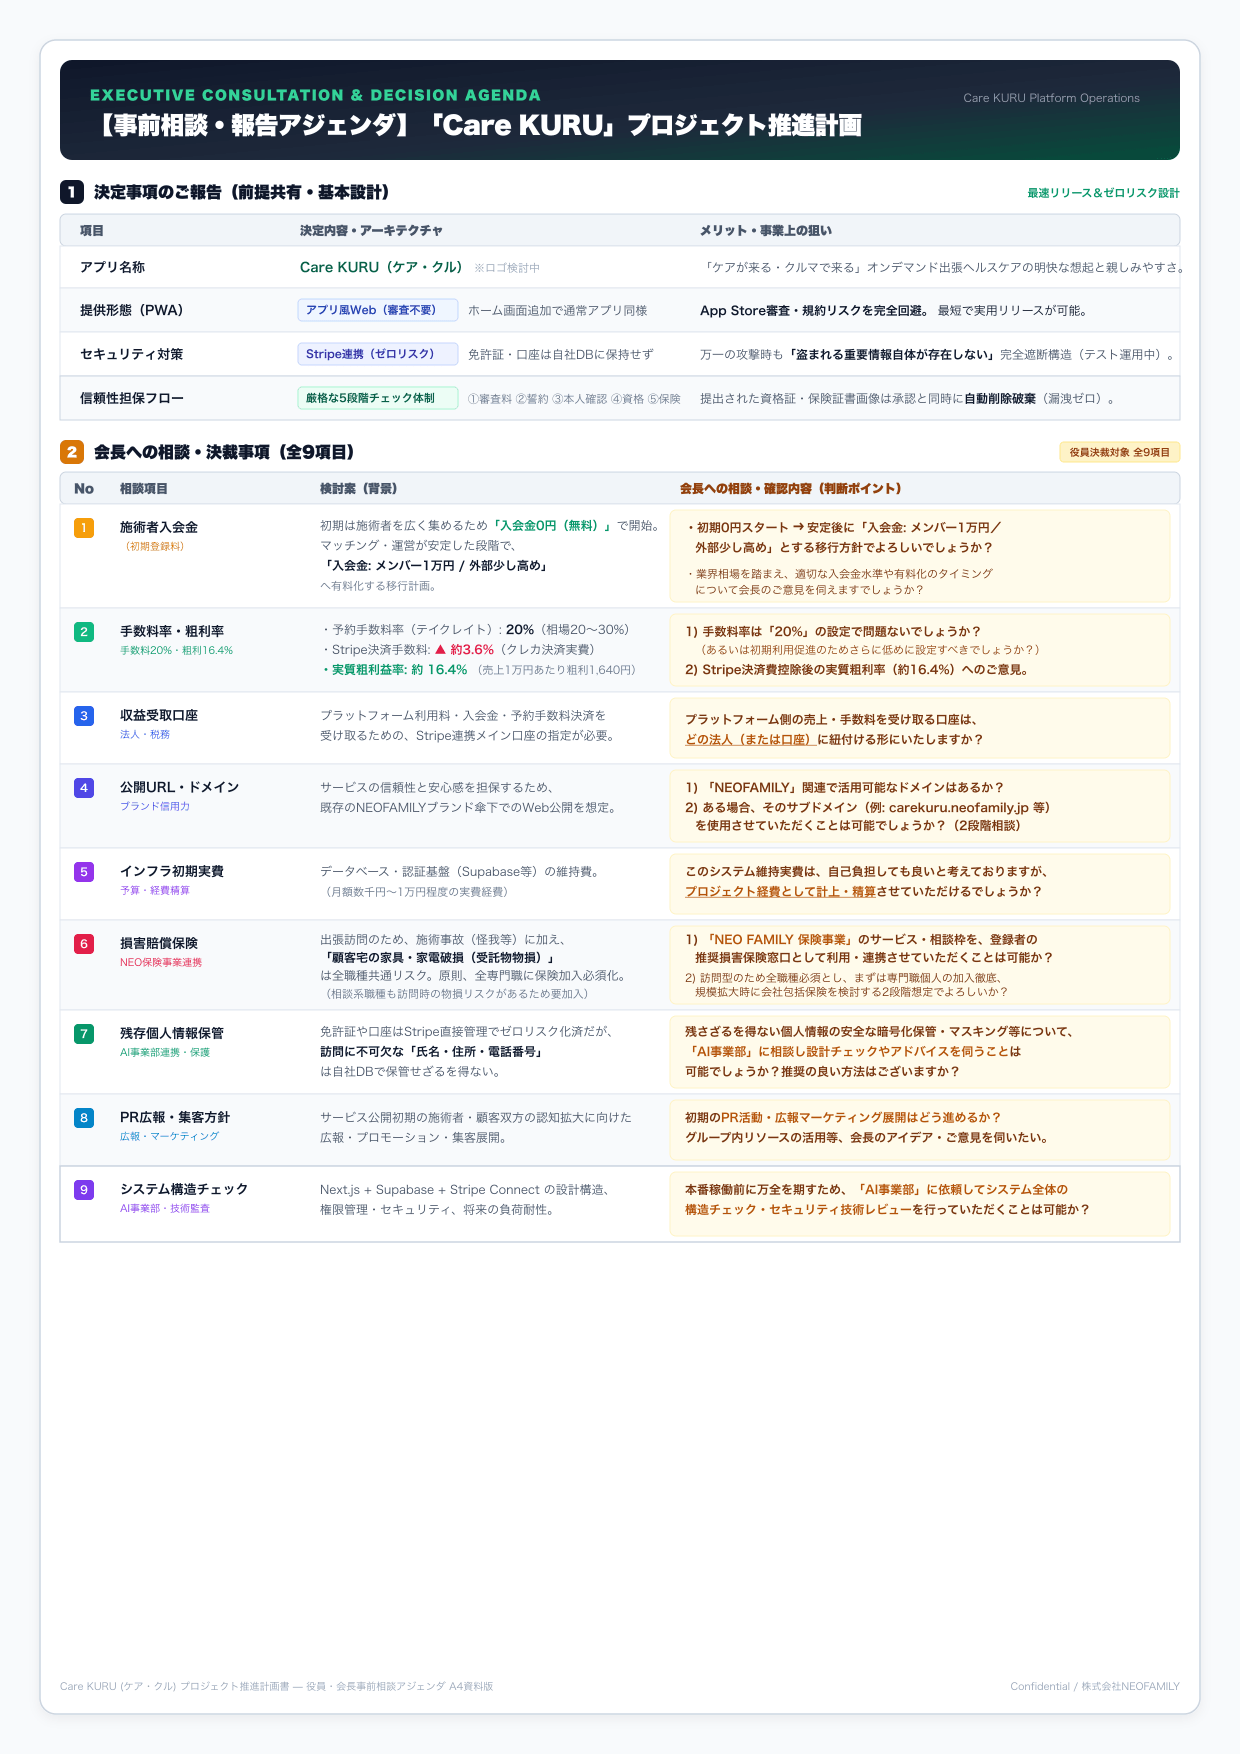
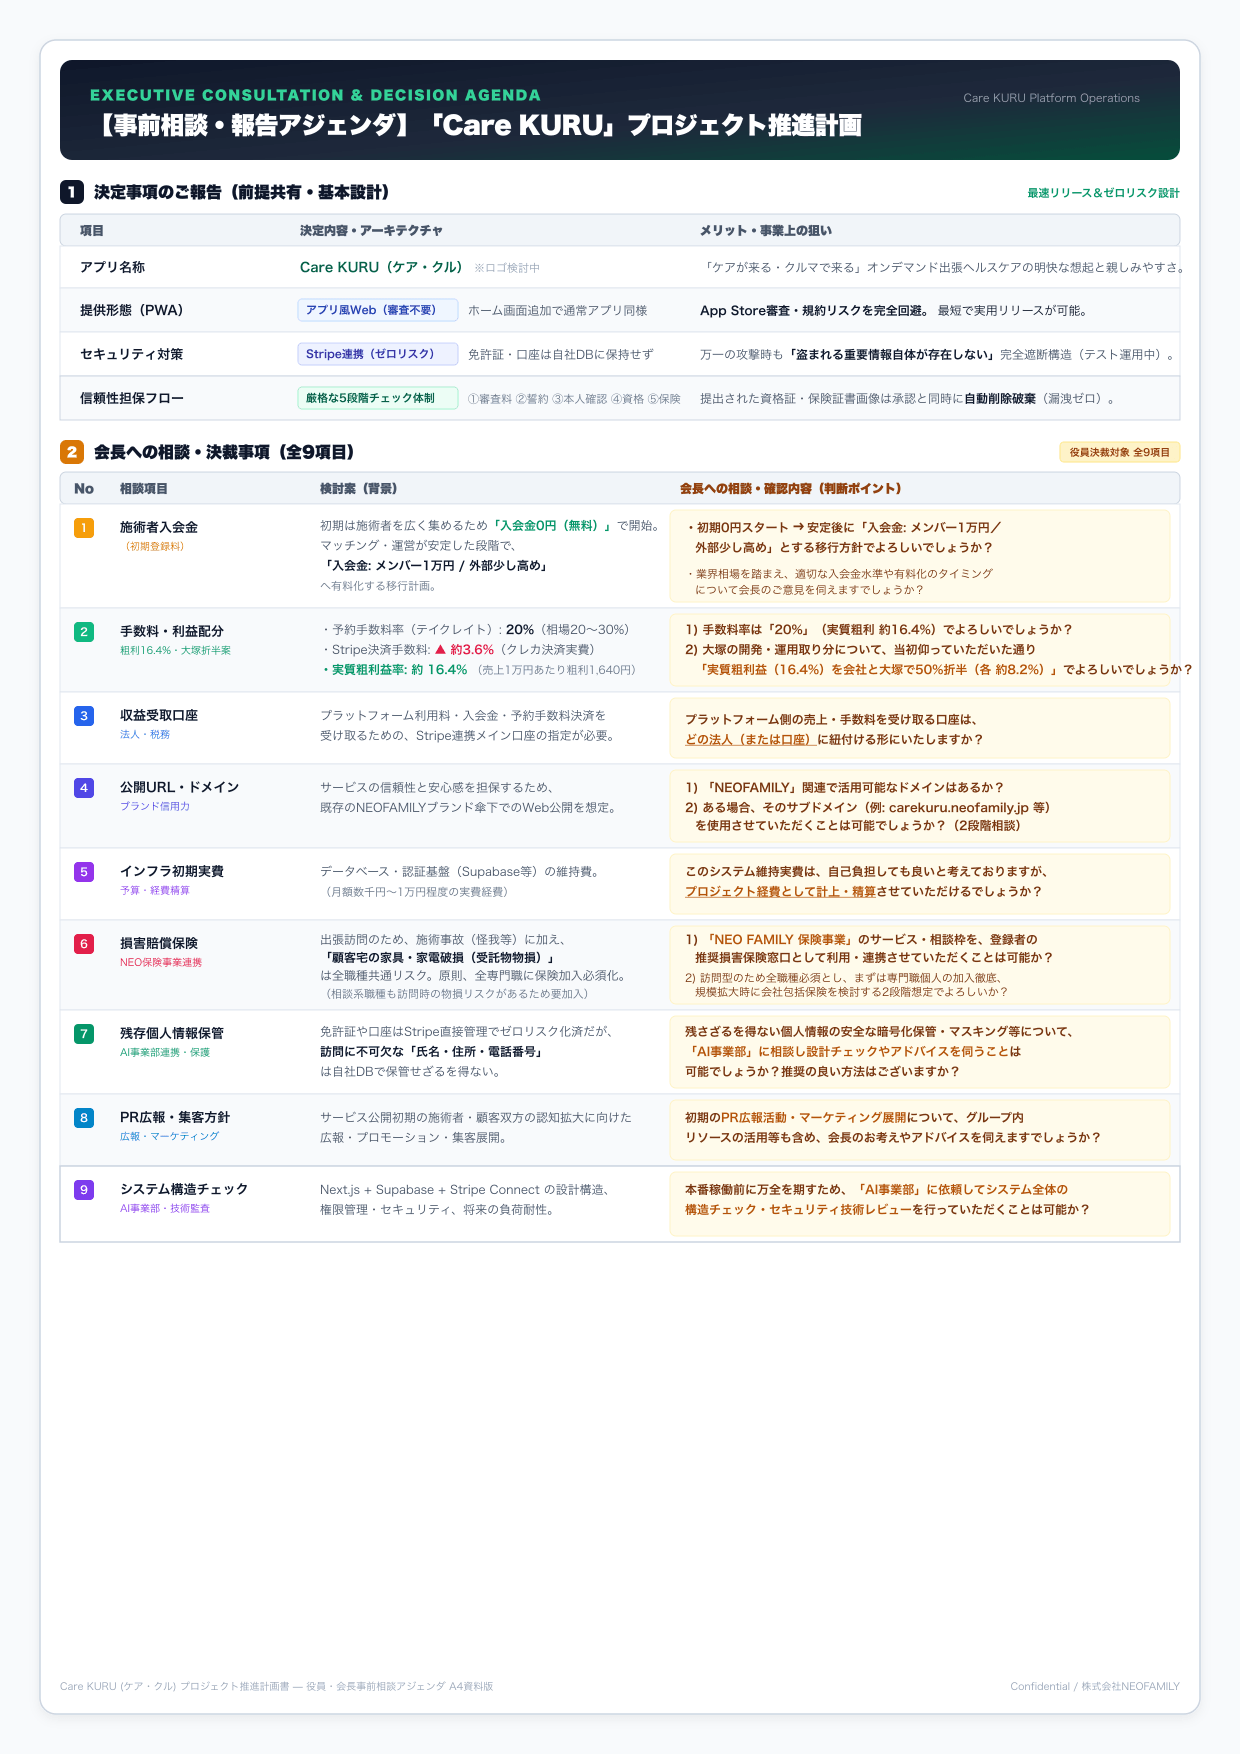
fix(guide): unify sentence endings and incorporate Otsuka's 50% profit share into agenda item 2

diff --git a/src/app/guide/admin/agenda/page.tsx b/src/app/guide/admin/agenda/page.tsx
@@ -148,24 +148,25 @@ export default function AgendaPage() {
                 </td>
               </tr>
 
-              {/* ② 手数料率・粗利率 */}
+              {/* ② 手数料率・粗利率・利益配分 */}
               <tr className="hover:bg-slate-50/50">
                 <td className="py-3 px-3 text-center font-bold text-emerald-700 border-r border-slate-200">2</td>
                 <td className="py-3 px-4 font-bold text-slate-900 border-r border-slate-200">
-                  <div>手数料率・粗利率</div>
-                  <span className="text-[11px] font-normal text-emerald-600">手数料20%・粗利16.4%</span>
+                  <div>手数料・利益配分</div>
+                  <span className="text-[11px] font-normal text-emerald-600">粗利16.4%・大塚折半案</span>
                 </td>
                 <td className="py-3 px-4 border-r border-slate-200 leading-relaxed text-slate-600">
-                  ・予約手数料率（テイクレイト）: <strong className="text-slate-900">20%</strong>（相場20〜30%）<br />
-                  ・Stripe決済手数料: <strong className="text-rose-600">▲ 約3.6%</strong>（クレカ決済実費）<br />
-                  ・実質粗利益率: <strong className="text-emerald-700">約 16.4%</strong>（売上1万円あたり粗利1,640円）
+                  ・手数料率: <strong className="text-slate-900">20%</strong>（相場20〜30%）<br />
+                  ・Stripe決済手数料: <strong className="text-rose-600">▲ 約3.6%</strong><br />
+                  ・実質粗利益率: <strong className="text-emerald-700">約 16.4%</strong><br />
+                  <span className="text-[11px] text-slate-500">（売上1万円あたり粗利1,640円）</span>
                 </td>
                 <td className="py-3 px-4 bg-amber-50/30 text-amber-950 leading-relaxed">
                   <div className="font-bold text-slate-900">
-                    1) 手数料率は「20%」の設定で問題ないでしょうか？（初期利用促進のためさらに低めにする案の要否）
+                    1) 手数料率は「20%」（実質粗利 約16.4%）の設定でよろしいでしょうか？
                   </div>
                   <div className="font-bold text-slate-900 mt-1">
-                    2) Stripe決済費控除後の実質粗利率（約16.4%）へのご意見。
+                    2) 大塚の開発・運用取り分について、当初仰っていただいた通り<span className="underline decoration-amber-500 font-black">「実質粗利益（約16.4%）を会社と大塚で50%ずつ折半（各 約8.2%）」</span>とする配分でよろしいでしょうか？
                   </div>
                 </td>
               </tr>
@@ -258,7 +259,7 @@ export default function AgendaPage() {
                 </td>
                 <td className="py-3 px-4 bg-amber-50/30 text-amber-950 leading-relaxed">
                   <div className="font-bold text-slate-900">
-                    残さざるを得ない個人情報の安全な暗号化保管・マスキング等について、<span className="underline decoration-amber-500 font-black">「AI事業部」に相談し設計チェックやアドバイスを伺うこと</span>は可能でしょうか？推奨の良い方法はございますか？
+                    残さざるを得ない個人情報の安全な暗号化保管・マスキング等について、<span className="underline decoration-amber-500 font-black">「AI事業部」に相談し設計チェックやアドバイスを伺うこと</span>は可能でしょうか？
                   </div>
                 </td>
               </tr>
@@ -275,7 +276,7 @@ export default function AgendaPage() {
                 </td>
                 <td className="py-3 px-4 bg-amber-50/30 text-amber-950 leading-relaxed">
                   <div className="font-bold text-slate-900">
-                    初期の<span className="underline decoration-amber-500 font-black">PR活動・広報マーケティング展開はどう進めるべきか？</span> グループ内リソースの活用等、会長のアイデア・ご意見を伺いたい。
+                    初期の<span className="underline decoration-amber-500 font-black">PR広報活動・マーケティング展開</span>について、グループ内リソースの活用等も含め、会長のお考えやアドバイスを伺えますでしょうか？
                   </div>
                 </td>
               </tr>

diff --git a/scripts/generateAgendaA4Image.js b/scripts/generateAgendaA4Image.js
@@ -125,22 +125,22 @@ const svg = `<svg xmlns="http://www.w3.org/2000/svg" viewBox="0 0 ${width} ${hei
         <text x="635" y="90" fill="#78350f" font-size="11">について会長のご意見を伺えますでしょうか？</text>
       </g>
 
-      <!-- ② 手数料率・想定利益率 -->
+      <!-- ② 手数料率・粗利率・利益配分 -->
       <g transform="translate(0, 136)">
         <rect x="0" y="0" width="${width - 120}" height="84" fill="#f8fafc" stroke="#e2e8f0" stroke-width="1" />
         <rect x="14" y="14" width="20" height="20" rx="4" fill="#10b981" />
         <text x="24" y="28" fill="#ffffff" font-size="11" font-weight="bold" text-anchor="middle">2</text>
-        <text x="60" y="28" fill="#0f172a" font-size="13" font-weight="bold">手数料率・粗利率</text>
-        <text x="60" y="46" fill="#059669" font-size="10">手数料20%・粗利16.4%</text>
+        <text x="60" y="28" fill="#0f172a" font-size="13" font-weight="bold">手数料・利益配分</text>
+        <text x="60" y="46" fill="#059669" font-size="10">粗利16.4%・大塚折半案</text>
 
         <text x="260" y="26" fill="#475569" font-size="12">・予約手数料率（テイクレイト）: <tspan font-weight="bold" fill="#0f172a">20%</tspan>（相場20〜30%）</text>
         <text x="260" y="46" fill="#475569" font-size="12">・Stripe決済手数料: <tspan font-weight="bold" fill="#e11d48">▲ 約3.6%</tspan>（クレカ決済実費）</text>
         <text x="260" y="66" fill="#059669" font-size="12" font-weight="bold">・実質粗利益率: 約 16.4% <tspan font-size="11" font-weight="normal" fill="#64748b">（売上1万円あたり粗利1,640円）</tspan></text>
 
         <rect x="610" y="6" width="${width - 740}" height="72" rx="6" fill="#fffbeb" stroke="#fef3c7" stroke-width="1" />
-        <text x="625" y="28" fill="#78350f" font-size="12" font-weight="bold">1) 手数料率は「20%」の設定で問題ないでしょうか？</text>
-        <text x="635" y="46" fill="#92400e" font-size="11">（あるいは初期利用促進のためさらに低めに設定すべきでしょうか？）</text>
-        <text x="625" y="66" fill="#78350f" font-size="12" font-weight="bold">2) Stripe決済費控除後の実質粗利率（約16.4%）へのご意見。</text>
+        <text x="625" y="26" fill="#78350f" font-size="12" font-weight="bold">1) 手数料率は「20%」（実質粗利 約16.4%）でよろしいでしょうか？</text>
+        <text x="625" y="46" fill="#78350f" font-size="12" font-weight="bold">2) 大塚の開発・運用取り分について、当初仰っていただいた通り</text>
+        <text x="635" y="66" fill="#78350f" font-size="12" font-weight="bold"><tspan fill="#b45309">「実質粗利益（16.4%）を会社と大塚で50%折半（各 約8.2%）」</tspan>でよろしいでしょうか？</text>
       </g>
 
       <!-- ③ 収益受取口座 -->
@@ -242,8 +242,8 @@ const svg = `<svg xmlns="http://www.w3.org/2000/svg" viewBox="0 0 ${width} ${hei
         <text x="260" y="48" fill="#475569" font-size="12">広報・プロモーション・集客展開。</text>
 
         <rect x="610" y="6" width="${width - 740}" height="60" rx="6" fill="#fffbeb" stroke="#fef3c7" stroke-width="1" />
-        <text x="625" y="28" fill="#78350f" font-size="12" font-weight="bold">初期の<tspan fill="#b45309">PR活動・広報マーケティング展開はどう進めるか？</tspan></text>
-        <text x="625" y="48" fill="#78350f" font-size="12" font-weight="bold">グループ内リソースの活用等、会長のアイデア・ご意見を伺いたい。</text>
+        <text x="625" y="28" fill="#78350f" font-size="12" font-weight="bold">初期の<tspan fill="#b45309">PR広報活動・マーケティング展開</tspan>について、グループ内</text>
+        <text x="625" y="48" fill="#78350f" font-size="12" font-weight="bold">リソースの活用等も含め、会長のお考えやアドバイスを伺えますでしょうか？</text>
       </g>
 
       <!-- ⑨ システム構造チェック依頼 -->
